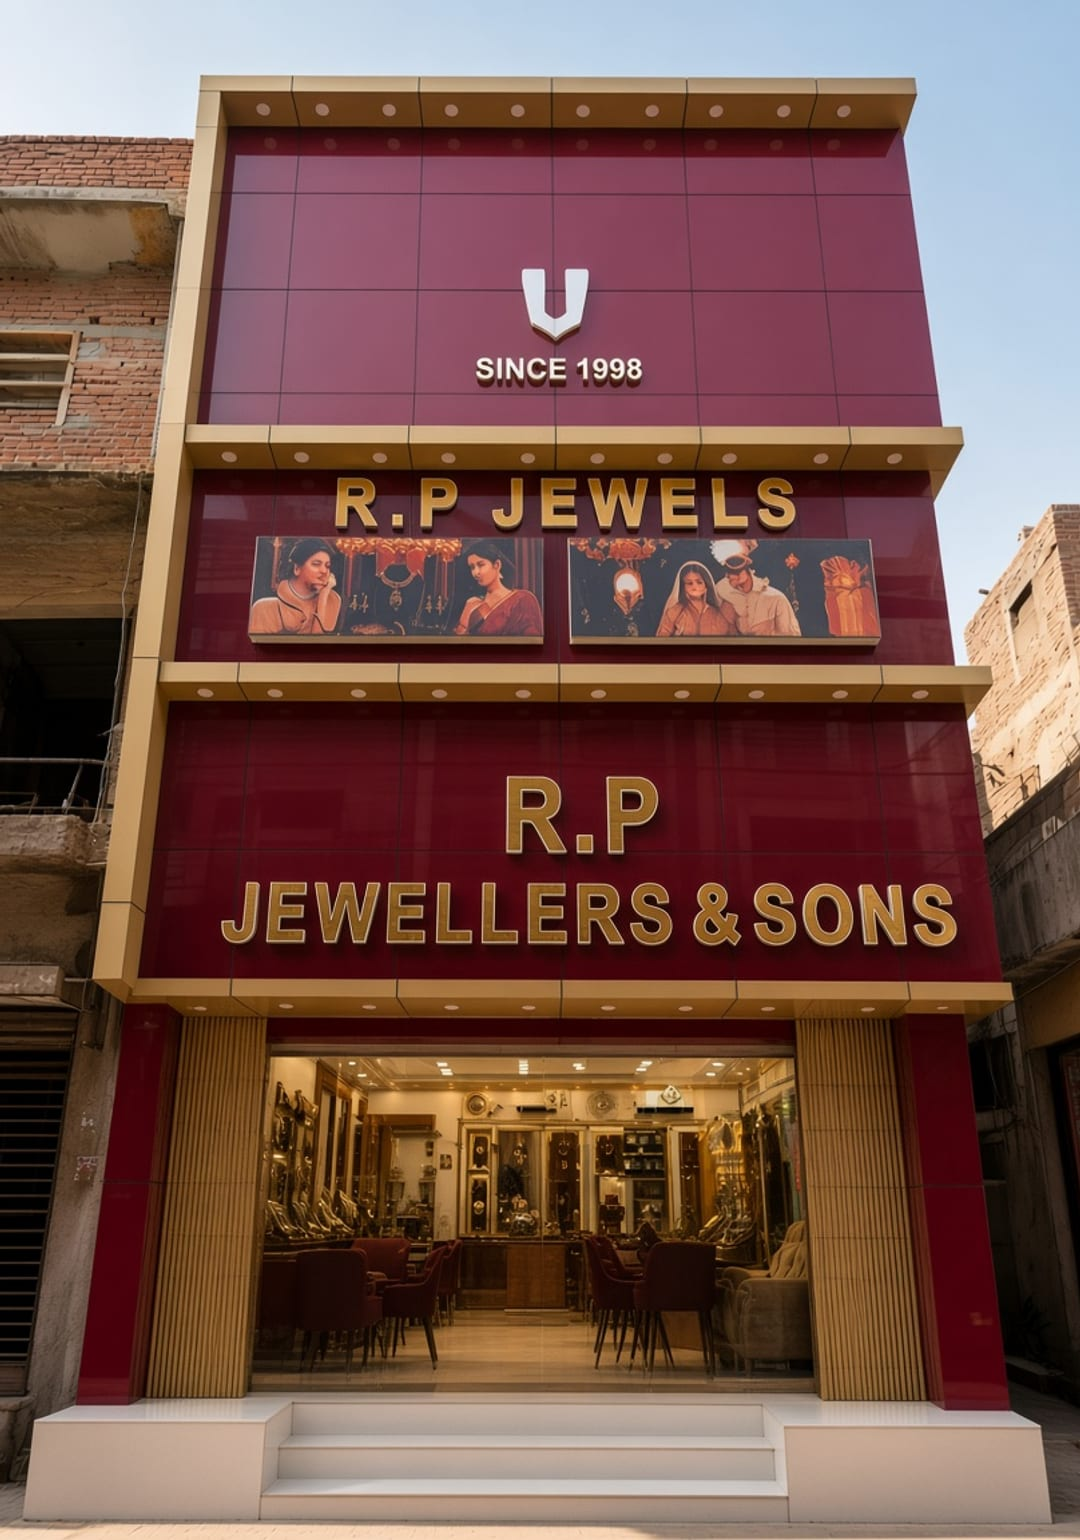
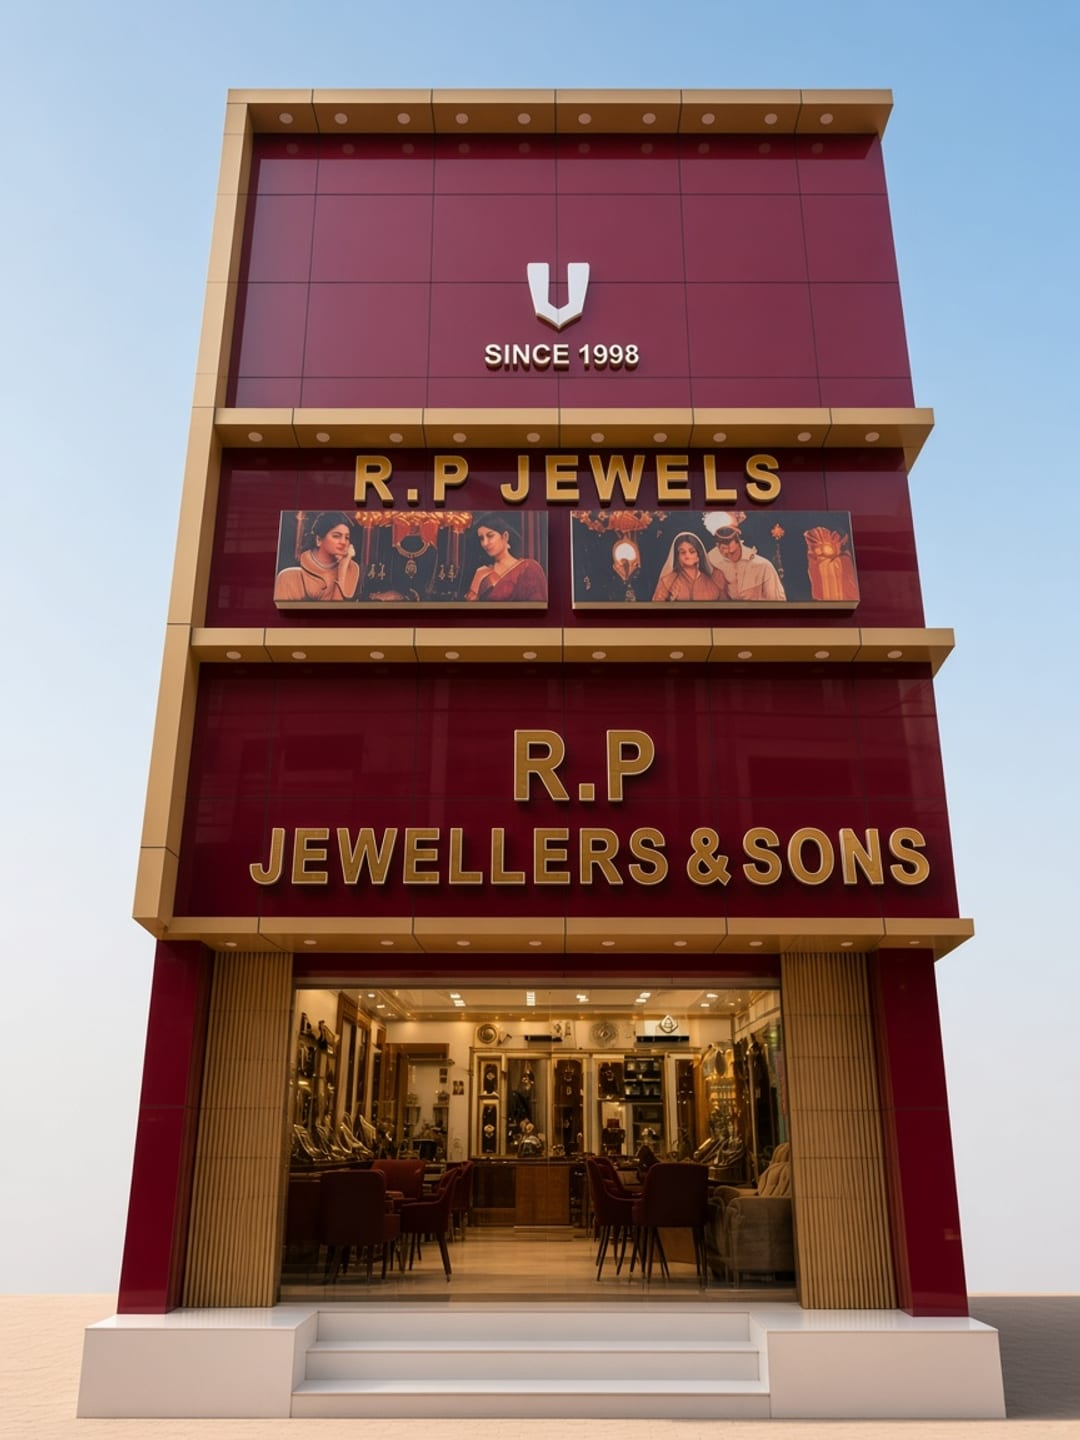
fix hero img

diff --git a/components/sections/Navbar.tsx b/components/sections/Navbar.tsx
@@ -3,7 +3,7 @@
 import { Menu, Phone, X } from "lucide-react";
 import Link from "next/link";
 import { useEffect, useRef, useState, type MouseEvent } from "react";
-import { navLinks } from "@/data/navigation";
+import { navLinks, isNavGroup } from "@/data/navigation";
 import { shop } from "@/data/shop";
 import { LanguageToggle } from "@/components/i18n/LocaleText";
 import { useI18n } from "@/components/i18n/LanguageProvider";
@@ -13,6 +13,7 @@ import { cn } from "@/lib/utils";
 
 export function Navbar() {
   const [open, setOpen] = useState(false);
+  const [jewelsOpen, setJewelsOpen] = useState(false);
   const blockOpen = useRef(false);
   const { t } = useI18n();
 
@@ -86,15 +87,50 @@ export function Navbar() {
         </Link>
 
         <nav className="hidden items-center gap-3 xl:gap-5 lg:flex" aria-label={t("nav.primary")}>
-          {navLinks.map((link) => (
-            <Link
-              key={link.href}
-              href={link.href}
-              className="type-nav nav-link text-ivory/90 transition-colors duration-300 hover:text-gold-300"
-            >
-              {t(link.key)}
-            </Link>
-          ))}
+          {navLinks.map((item) =>
+            isNavGroup(item) ? (
+              <div
+                key={item.key}
+                className="relative"
+                onMouseEnter={() => setJewelsOpen(true)}
+                onMouseLeave={() => setJewelsOpen(false)}
+                onFocus={() => setJewelsOpen(true)}
+                onBlur={(event) => {
+                  if (!event.currentTarget.contains(event.relatedTarget)) setJewelsOpen(false);
+                }}
+              >
+                <button
+                  type="button"
+                  className="type-nav nav-link text-ivory/90 transition-colors duration-300 hover:text-gold-300"
+                  aria-expanded={jewelsOpen}
+                  aria-haspopup="true"
+                >
+                  {t(item.key)}
+                </button>
+                <div className={cn("absolute left-1/2 top-full z-50 -translate-x-1/2 pt-3", jewelsOpen ? "visible" : "invisible")}>
+                  <div className="min-w-36 border border-gold-500/80 bg-maroon-900 px-1 py-1">
+                    {item.children.map((child) => (
+                      <Link
+                        key={child.href}
+                        href={child.href}
+                        className="type-nav block px-4 py-3 text-ivory/90 transition-colors duration-300 hover:text-gold-300"
+                      >
+                        {t(child.key)}
+                      </Link>
+                    ))}
+                  </div>
+                </div>
+              </div>
+            ) : (
+              <Link
+                key={item.href}
+                href={item.href}
+                className="type-nav nav-link text-ivory/90 transition-colors duration-300 hover:text-gold-300"
+              >
+                {t(item.key)}
+              </Link>
+            ),
+          )}
         </nav>
 
         <div className="hidden items-center gap-3 md:flex">
@@ -142,17 +178,36 @@ export function Navbar() {
                 </button>
               </div>
               <ul className="mt-10 flex flex-col">
-                {navLinks.map((link) => (
-                  <li key={link.href} className="border-b border-gold-500/25">
-                    <Link
-                      href={link.href}
-                      className="type-menu block py-4 text-ivory transition-colors duration-300 hover:text-gold-300"
-                      onClick={(event) => onNavigate(event, link.href)}
-                    >
-                      {t(link.key)}
-                    </Link>
-                  </li>
-                ))}
+                {navLinks.map((item) =>
+                  isNavGroup(item) ? (
+                    <li key={item.key} className="border-b border-gold-500/25">
+                      <p className="type-menu py-4 text-ivory">{t(item.key)}</p>
+                      <ul className="mb-3 border-l border-gold-500/40 pl-4">
+                        {item.children.map((child) => (
+                          <li key={child.href}>
+                            <Link
+                              href={child.href}
+                              className="type-menu block py-2 text-gold-300 transition-colors duration-300 hover:text-ivory"
+                              onClick={(event) => onNavigate(event, child.href)}
+                            >
+                              {t(child.key)}
+                            </Link>
+                          </li>
+                        ))}
+                      </ul>
+                    </li>
+                  ) : (
+                    <li key={item.href} className="border-b border-gold-500/25">
+                      <Link
+                        href={item.href}
+                        className="type-menu block py-4 text-ivory transition-colors duration-300 hover:text-gold-300"
+                        onClick={(event) => onNavigate(event, item.href)}
+                      >
+                        {t(item.key)}
+                      </Link>
+                    </li>
+                  ),
+                )}
               </ul>
               <div className="mt-auto pt-8">
                 <LanguageToggle className="mb-4" />

diff --git a/data/navigation.ts b/data/navigation.ts
@@ -1,8 +1,16 @@
 import type { MessageKey } from "@/data/i18n";
 
-export const navLinks: Array<{ href: string; key: MessageKey }> = [
+export type NavLink = { href: string; key: MessageKey };
+export type NavGroup = { key: MessageKey; children: NavLink[] };
+export type NavEntry = NavLink | NavGroup;
+
+export function isNavGroup(item: NavEntry): item is NavGroup {
+  return "children" in item;
+}
+
+export const navLinks: NavEntry[] = [
   { href: "/#home", key: "nav.home" },
-  { href: "/wedding", key: "nav.wedding" },
+  { key: "nav.rpjewels", children: [{ href: "/wedding", key: "nav.wedding" }] },
   { href: "/collections", key: "nav.products" },
   { href: "/#guide", key: "nav.guide" },
   { href: "/about", key: "nav.about" },

diff --git a/data/i18n.ts b/data/i18n.ts
@@ -4,6 +4,7 @@ export type Locale = (typeof locales)[number];
 export const dictionary = {
   en: {
     "nav.home": "Home",
+    "nav.rpjewels": "R.P Jewels",
     "nav.wedding": "Wedding",
     "nav.collections": "Collections",
     "nav.products": "Products",
@@ -178,6 +179,7 @@ export const dictionary = {
   },
   hi: {
     "nav.home": "होम",
+    "nav.rpjewels": "आर.पी. ज्वेल्स",
     "nav.wedding": "शादी",
     "nav.collections": "कलेक्शन",
     "nav.products": "गहने",

diff --git a/components/sections/Hero.tsx b/components/sections/Hero.tsx
@@ -43,7 +43,7 @@ export function Hero() {
             >
               <div className="absolute inset-0 md:hidden">
                 <SafeImage
-                  src="/images/hero-mobile.jpg"
+                  src="/images/hero-mobile-shop.jpg"
                   alt={t("hero.photo")}
                   sizes="100vw"
                   priority
